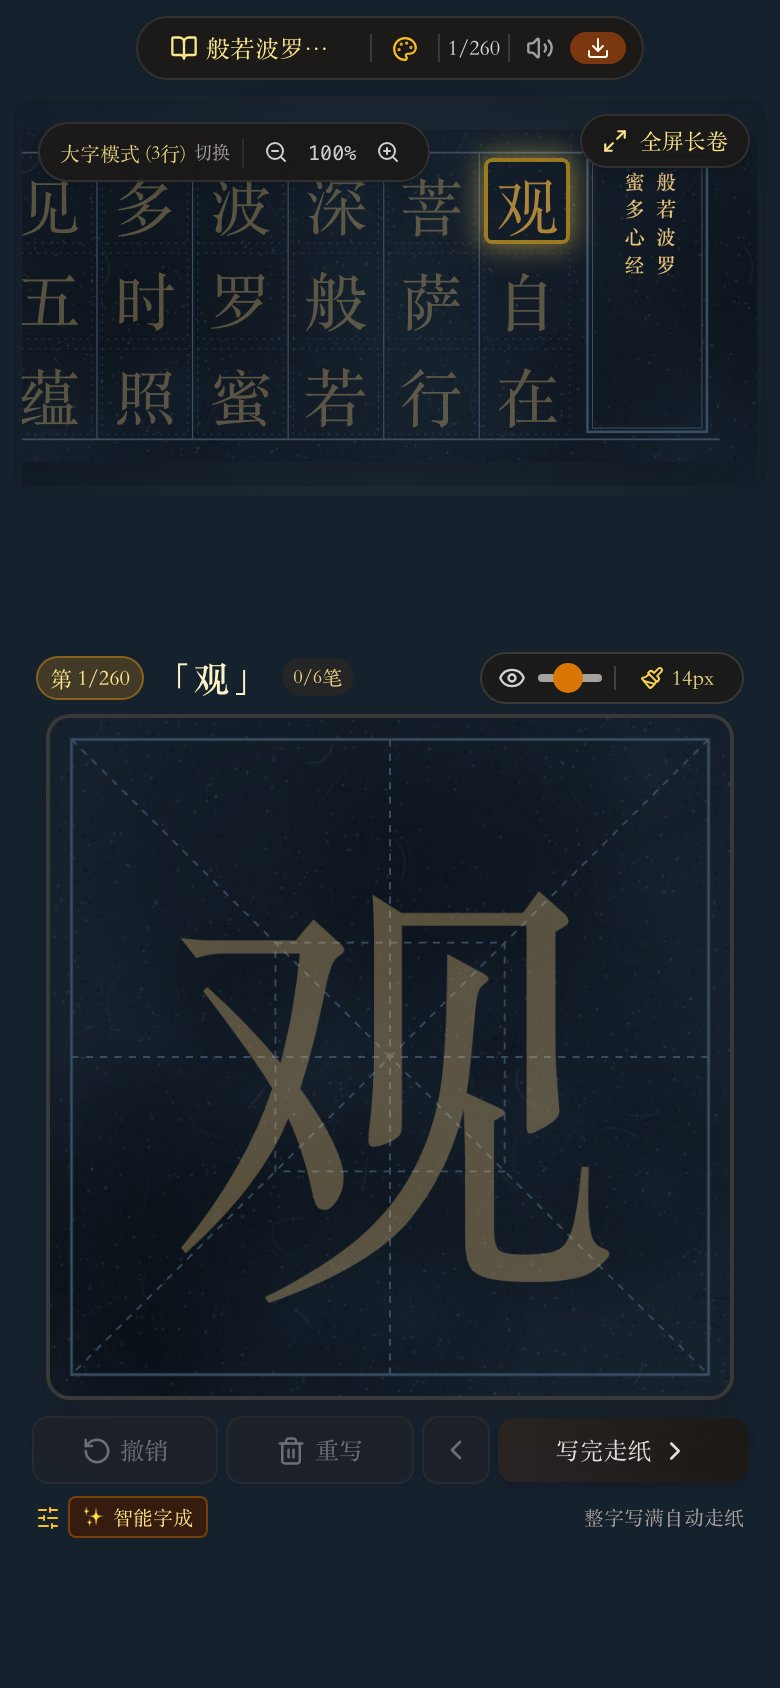
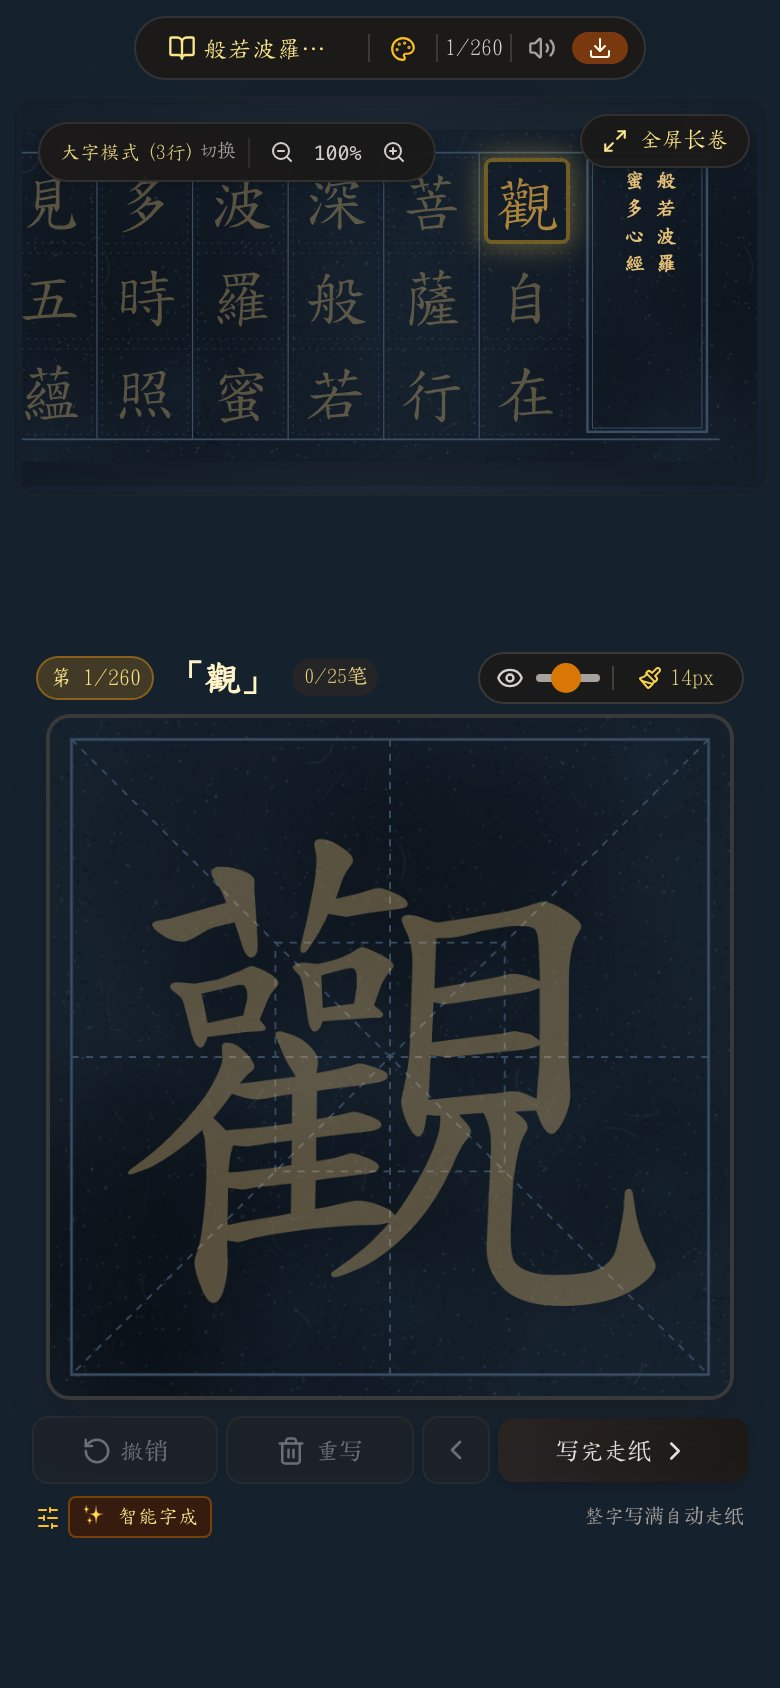
fix(seal,pad): 印章布白遵循汉印满白章法充满印面，放大米字格书写字模占比至88%

diff --git a/src/engine/ScrollExporter.ts b/src/engine/ScrollExporter.ts
@@ -117,67 +117,94 @@ export function drawSealOnCanvas(
     ctx.fillStyle = sealRed;
   }
 
-  // 3. 字體設置：古代印章篆書優先
-  ctx.textAlign = 'center';
-  ctx.textBaseline = 'middle';
+  // 3. 篆刻印文繪製輔助函數（支持中心縮放與字勢拓展，充盈印面，計白當黑）
+  const drawSealChar = (
+    char: string,
+    cx: number,
+    cy: number,
+    fontSize: number,
+    scaleX = 1.0,
+    scaleY = 1.0
+  ) => {
+    ctx.save();
+    ctx.translate(cx, cy);
+    if (scaleX !== 1.0 || scaleY !== 1.0) {
+      ctx.scale(scaleX, scaleY);
+    }
+    ctx.font = `normal normal ${fontSize}px ${ANCIENT_SEAL_FONT_STACK}`;
+    ctx.textAlign = 'center';
+    ctx.textBaseline = 'middle';
+    ctx.fillText(char, 0, 0);
+    ctx.restore();
+  };
 
-  // 4. 根據字數自適應章法排版
+  // 4. 根據字數自適應章法排版（遵古法「印貴填密」、「計白當黑」漢印滿白/滿朱章法）
+  const isRound = sealShape === 'round' || sealShape === 'circle' || sealShape === 'oval';
+
   if (numChars === 1) {
-    // 【一字印】：單字居中，雄渾端肅
-    const fontSize = Math.floor(size * 0.60);
-    ctx.font = `normal normal ${fontSize}px ${ANCIENT_SEAL_FONT_STACK}`;
-    ctx.fillText(chars[0], x + size / 2, y + size * 0.51);
+    // 【一字印】：單字居中，雄渾端肅，橫向展闊充盈印面
+    const fontSize = Math.floor(size * (isRound ? 0.76 : 0.82));
+    const sx = isRound ? 1.10 : 1.18;
+    drawSealChar(chars[0], x + size / 2, y + size * 0.50, fontSize, sx, 1.0);
   } else if (numChars === 2) {
-    // 【二字印】：縱列一列，從上到下貫通
-    const fontSize = Math.floor(size * 0.38);
-    ctx.font = `normal normal ${fontSize}px ${ANCIENT_SEAL_FONT_STACK}`;
-    ctx.fillText(chars[0], x + size / 2, y + size * 0.32);
-    ctx.fillText(chars[1], x + size / 2, y + size * 0.70);
+    // 【二字印】：方印經典漢制「雙列並峙」（右列首字，左列次字），直貫上下，完全充實左右兩廂
+    const fontSize = Math.floor(size * (isRound ? 0.68 : 0.74));
+    const colRight = x + size * (isRound ? 0.68 : 0.73);
+    const colLeft = x + size * (isRound ? 0.32 : 0.27);
+    const sx = isRound ? 1.04 : 1.10;
+
+    drawSealChar(chars[0], colRight, y + size * 0.50, fontSize, sx, 1.0);
+    drawSealChar(chars[1], colLeft, y + size * 0.50, fontSize, sx, 1.0);
   } else if (numChars === 3) {
     // 【三字印】：經典古法篆刻「右二左一」章法
-    // 右列為前二字，左列為第三字（居中略寬以平衡氣韻）
-    const fontSizeRight = Math.floor(size * 0.34);
-    const fontSizeLeft = Math.floor(size * 0.40);
+    // 右列為前二字疊布，左列為第三字頂天立地，全幅飽滿
+    const fontSizeRight = Math.floor(size * (isRound ? 0.38 : 0.44));
+    const fontSizeLeft = Math.floor(size * (isRound ? 0.68 : 0.74));
+    const colRight = x + size * (isRound ? 0.68 : 0.73);
+    const colLeft = x + size * (isRound ? 0.32 : 0.27);
+    const rowTop = y + size * (isRound ? 0.32 : 0.29);
+    const rowBottom = y + size * (isRound ? 0.68 : 0.71);
+    const sx = isRound ? 1.04 : 1.12;
 
     // 右列兩字
-    ctx.font = `normal normal ${fontSizeRight}px ${ANCIENT_SEAL_FONT_STACK}`;
-    ctx.fillText(chars[0], x + size * 0.72, y + size * 0.32);
-    ctx.fillText(chars[1], x + size * 0.72, y + size * 0.70);
+    drawSealChar(chars[0], colRight, rowTop, fontSizeRight, sx, 1.0);
+    drawSealChar(chars[1], colRight, rowBottom, fontSizeRight, sx, 1.0);
 
-    // 左列一字居中
-    ctx.font = `normal normal ${fontSizeLeft}px ${ANCIENT_SEAL_FONT_STACK}`;
-    ctx.fillText(chars[2], x + size * 0.28, y + size * 0.51);
+    // 左列一字居中貫通
+    drawSealChar(chars[2], colLeft, y + size * 0.50, fontSizeLeft, sx, 1.0);
   } else if (numChars === 4) {
-    // 【四字印】：經典漢印田字格（從右至左，從上至下）
-    const fontSize = Math.floor(size * 0.34);
-    ctx.font = `normal normal ${fontSize}px ${ANCIENT_SEAL_FONT_STACK}`;
-    const colRight = x + size * 0.72;
-    const colLeft = x + size * 0.28;
-    const rowTop = y + size * 0.32;
-    const rowBottom = y + size * 0.70;
+    // 【四字印】：經典漢印田字格（右上->右下->左上->左下），字勢茂密，滿白/滿朱
+    const fontSize = Math.floor(size * (isRound ? 0.38 : 0.44));
+    const colRight = x + size * (isRound ? 0.68 : 0.73);
+    const colLeft = x + size * (isRound ? 0.32 : 0.27);
+    const rowTop = y + size * (isRound ? 0.32 : 0.29);
+    const rowBottom = y + size * (isRound ? 0.68 : 0.71);
+    const sx = isRound ? 1.04 : 1.12;
 
-    ctx.fillText(chars[0], colRight, rowTop);
-    ctx.fillText(chars[1], colRight, rowBottom);
-    ctx.fillText(chars[2], colLeft, rowTop);
-    ctx.fillText(chars[3], colLeft, rowBottom);
+    drawSealChar(chars[0], colRight, rowTop, fontSize, sx, 1.0);
+    drawSealChar(chars[1], colRight, rowBottom, fontSize, sx, 1.0);
+    drawSealChar(chars[2], colLeft, rowTop, fontSize, sx, 1.0);
+    drawSealChar(chars[3], colLeft, rowBottom, fontSize, sx, 1.0);
   } else {
-    // 【多字印 (5~6字)】：雙列多行自適應
-    const fontSize = Math.floor(size * 0.26);
-    ctx.font = `normal normal ${fontSize}px ${ANCIENT_SEAL_FONT_STACK}`;
+    // 【多字印 (5~6字)】：雙列多行自適應，緊湊布白
     const half = Math.ceil(numChars / 2);
     const rightCol = chars.slice(0, half);
     const leftCol = chars.slice(half);
+    const maxRows = Math.max(rightCol.length, leftCol.length);
+    const fontSize = Math.floor(size * (0.84 / maxRows));
+    const colRight = x + size * (isRound ? 0.68 : 0.73);
+    const colLeft = x + size * (isRound ? 0.32 : 0.27);
 
-    const stepRight = (size * 0.75) / Math.max(1, rightCol.length);
-    const startYRight = y + size * 0.18 + stepRight / 2;
+    const stepRight = (size * 0.84) / Math.max(1, rightCol.length);
+    const startYRight = y + size * 0.08 + stepRight / 2;
     rightCol.forEach((c, i) => {
-      ctx.fillText(c, x + size * 0.72, startYRight + i * stepRight);
+      drawSealChar(c, colRight, startYRight + i * stepRight, fontSize, 1.10, 1.0);
     });
 
-    const stepLeft = (size * 0.75) / Math.max(1, leftCol.length);
-    const startYLeft = y + size * 0.18 + stepLeft / 2;
+    const stepLeft = (size * 0.84) / Math.max(1, leftCol.length);
+    const startYLeft = y + size * 0.08 + stepLeft / 2;
     leftCol.forEach((c, i) => {
-      ctx.fillText(c, x + size * 0.28, startYLeft + i * stepLeft);
+      drawSealChar(c, colLeft, startYLeft + i * stepLeft, fontSize, 1.10, 1.0);
     });
   }
 

diff --git a/src/components/ZoomWritingPad.tsx b/src/components/ZoomWritingPad.tsx
@@ -319,10 +319,10 @@ export const ZoomWritingPad: React.FC<ZoomWritingPadProps> = ({
     );
     ctx.restore();
 
-    // 3. 绘制楷体小楷字模（正体名家底帖）
+    // 3. 绘制楷体小楷字模（正体名家底帖，加大字模在米字格中的占比，使气韵舒展饱满）
     if (showGuideChar && currentChar) {
       ctx.save();
-      const fontSize = Math.floor(innerSize * 0.72);
+      const fontSize = Math.floor(innerSize * 0.88);
       ctx.font = `normal normal 400 ${fontSize}px "Kaiti TC", "BiauKai", "DFKai-SB", "TW-MOE-Std-Kai", "Kaiti SC", "STKaiti", "KaiTi", serif`;
       ctx.textAlign = 'center';
       ctx.textBaseline = 'middle';
